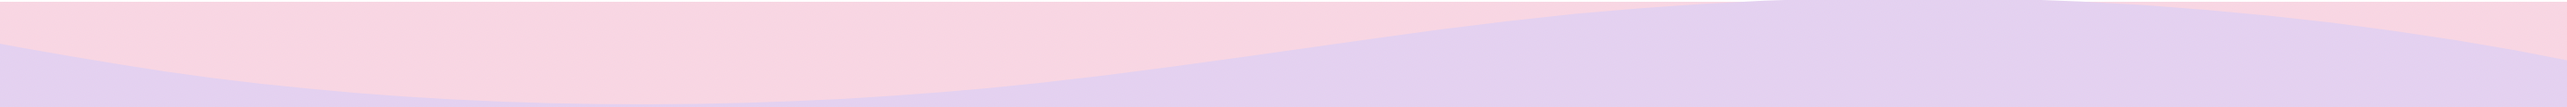
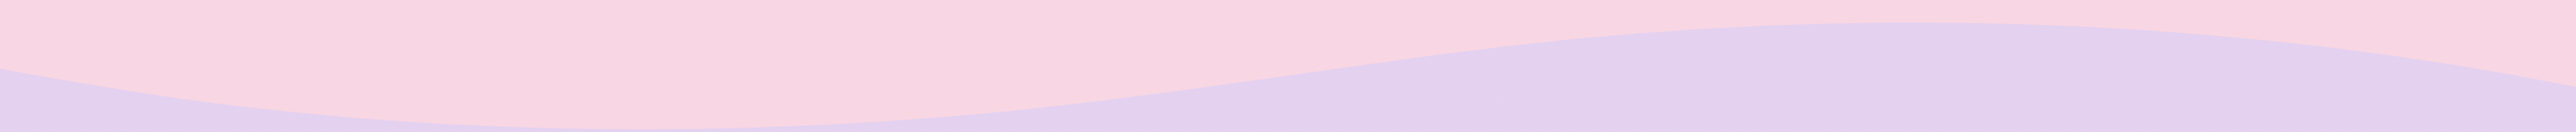
final touches

Changed region(s): [[0.0, 0.0, 0.6822, 0.025], [0.8063, 0.0, 1.0, 0.025]]

diff --git a/public/index.html b/public/index.html
@@ -3,7 +3,7 @@
   <head>
     <meta charset="utf-8">
     <meta name="viewport" content="width=device-width, initial-scale=1">
-    <title> Memo(rable) Login Page </title>
+    <title> Memo(rable) Login </title>
     <link rel="preconnect" href="https://fonts.googleapis.com">
     <link rel="preconnect" href="https://fonts.gstatic.com" crossorigin>
     <link rel="stylesheet" href="https://unpkg.com/bulma@0.9.0/css/bulma.min.css" />
@@ -32,7 +32,7 @@
                         <br>
                         <p class="has-text-centered is-overlay is-secondary is-monospace">
                             <br><br><br><br><br><br><br><br><br><br><br>
-                            <a class="button is-medium is-primary is-large is-rounded" onclick="signIn()">
+                            <a class="button is-medium is-primary is-large is-rounded is-outlined" onclick="signIn()">
                                 Sign In
                             </a>
                         </p>

diff --git a/public/main.html b/public/main.html
@@ -4,7 +4,7 @@
 <head>
     <meta charset="utf-8" />
     <link rel="icon" href="" />
-    <title>Main</title>
+    <title>Home</title>
     <link rel="stylesheet" href="https://cdn.jsdelivr.net/npm/bulma@0.9.1/css/bulma.min.css" />
     <link rel="stylesheet" href="css/main.css" />
     <script src="js/main.js" defer></script>
@@ -132,7 +132,7 @@
 <div class ="ispurple">
     
     <figure>
-        <img src= "./new new purple.png"
+        <img src= "./purple wave.png"
     </figure>
     <br><br><br><br>
     <h1 class="title is-1 has-text-centered">Code of Conduct</h1>

diff --git a/public/receive.html b/public/receive.html
@@ -4,7 +4,7 @@
 <head>
     <meta charset="utf-8" />
     <link rel="icon" href="" />
-    <title>Main</title>
+    <title>Receive Messages</title>
     <link rel="stylesheet" href="https://cdn.jsdelivr.net/npm/bulma@0.9.1/css/bulma.min.css" />
     <link rel="stylesheet" href="css/main.css" />
     <script src="js/receive.js" defer></script>

diff --git a/public/mymessages.html b/public/mymessages.html
@@ -4,7 +4,7 @@
 <head>
     <meta charset="utf-8" />
     <link rel="icon" href="" />
-    <title>Main</title>
+    <title>My Messages</title>
     <link rel="stylesheet" href="https://cdn.jsdelivr.net/npm/bulma@0.9.1/css/bulma.min.css" />
     <link rel="stylesheet" href="css/main.css" />
     <script src="js/mymessages.js" defer></script>

diff --git a/public/send.html b/public/send.html
@@ -4,7 +4,7 @@
 <head>
     <meta charset="utf-8" />
     <link rel="icon" href="" />
-    <title>Main</title>
+    <title>Send Messages</title>
     <link rel="stylesheet" href="https://cdn.jsdelivr.net/npm/bulma@0.9.1/css/bulma.min.css" />
     <link rel="stylesheet" href="css/main.css" />
     <script src="js/send.js" defer></script>
